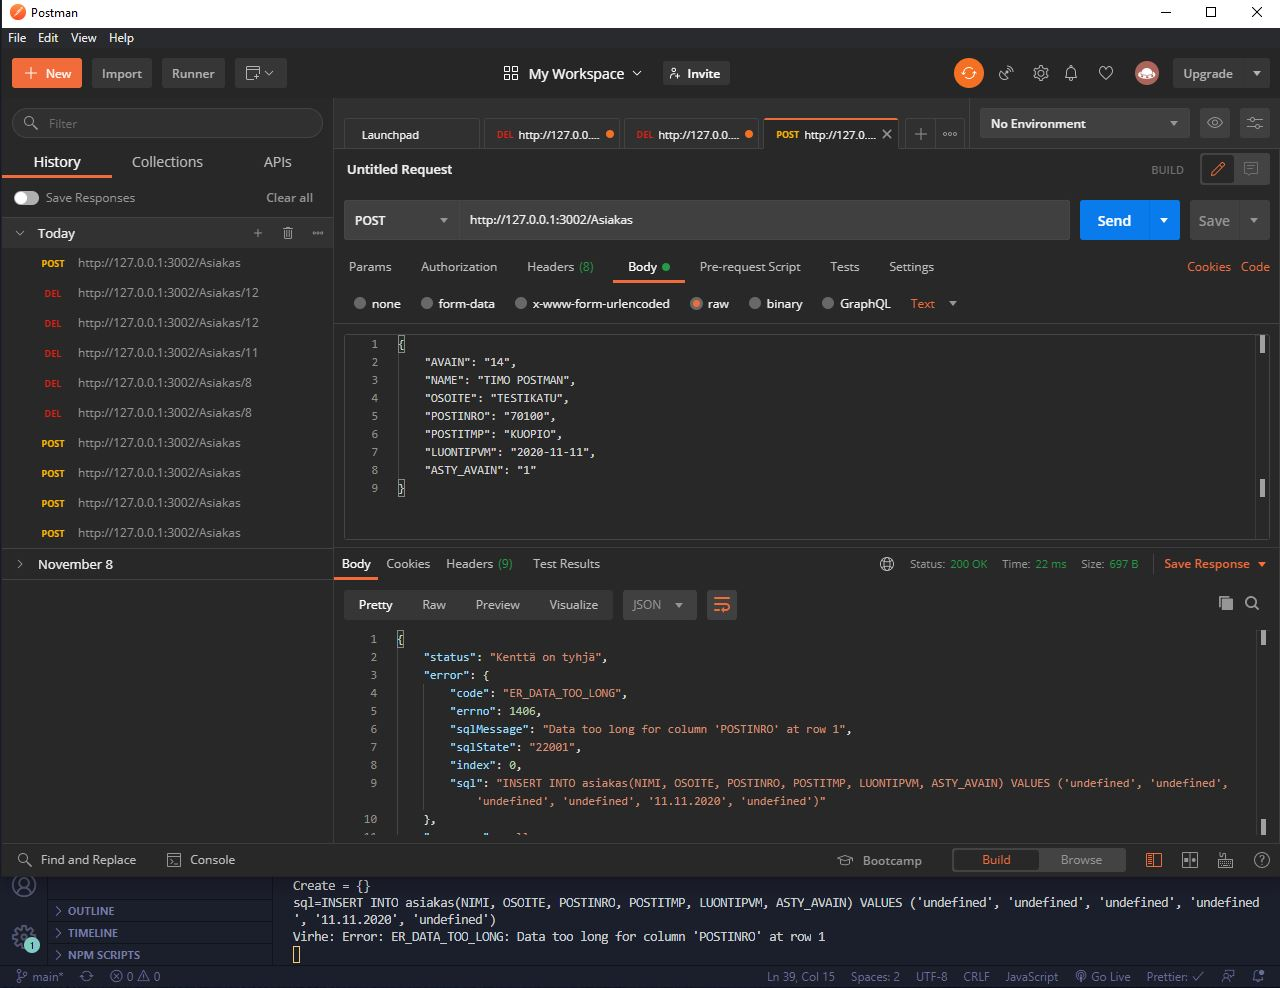
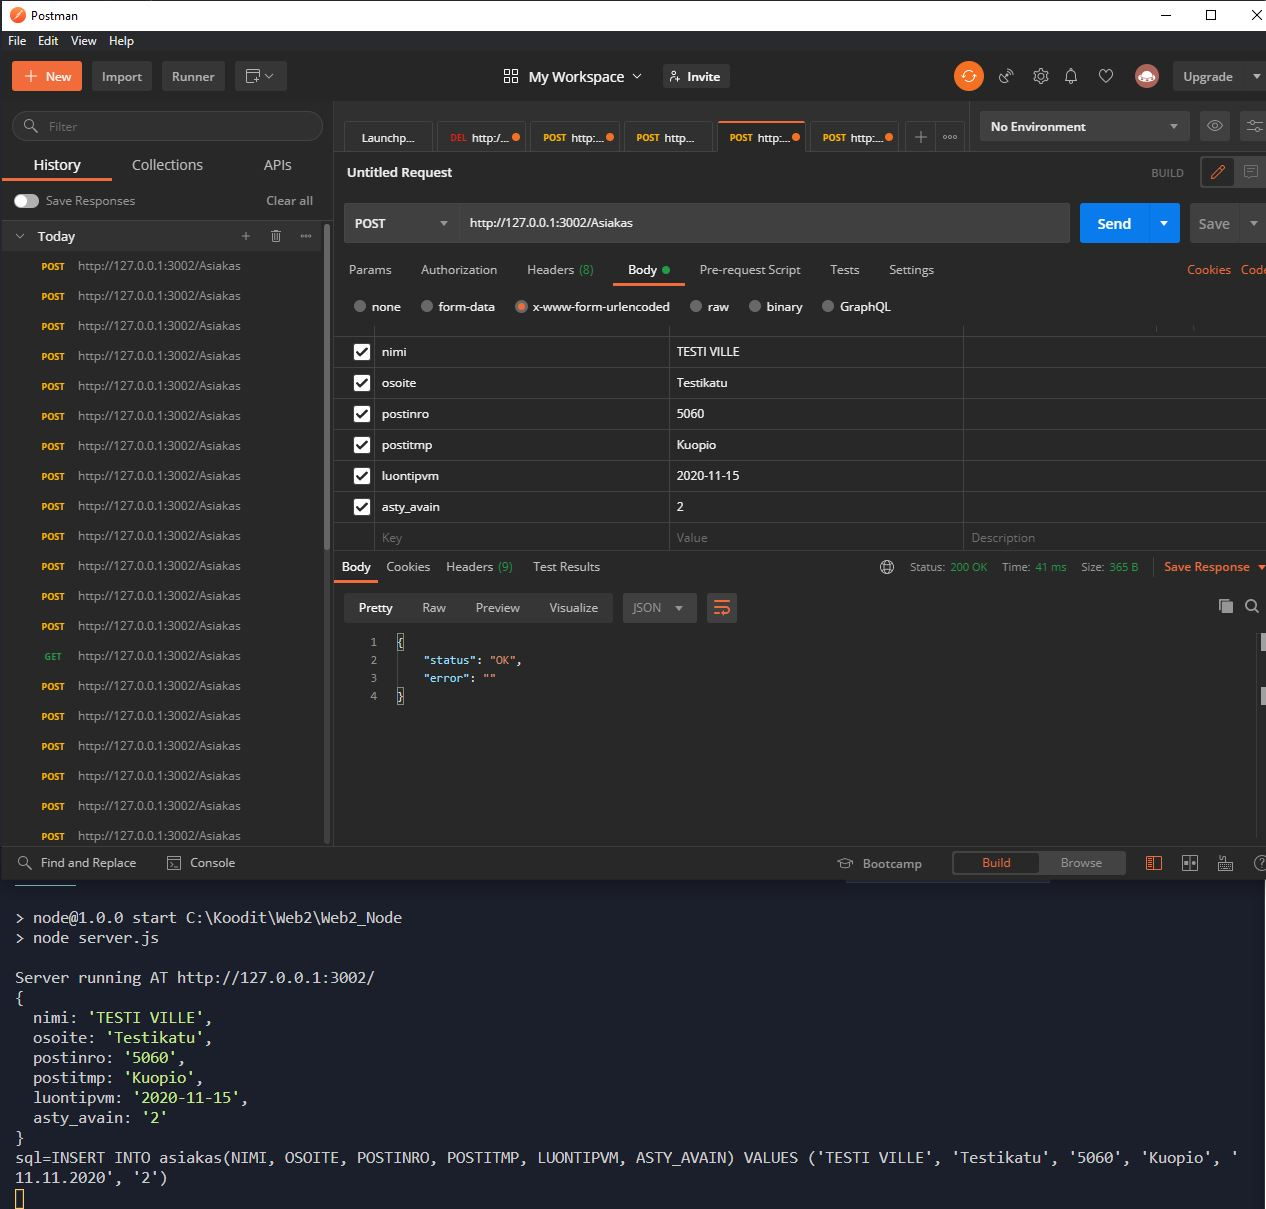
Versio 2.1
Korjattiin käyttöliittymän bugit, lisäys-toiminto ja ajax-kutsun delete methodi

diff --git a/script.js b/script.js
@@ -1,0 +1,191 @@
+$(function(){
+
+    // $.get("http://localhost:3002/Asiakas", (data, status, xhr) => {
+    // 	$.each(data, (index, json_obj) => {
+    // 		$("#asiakastyyppi").append("<option value=" + json_obj.AVAIN + ">" + json_obj.SELITE + "</option>");
+    // 			console.log(data);
+    // 		});
+    // 	});
+        
+    $("#addCustSubmit").click(function(){
+        lisaaAsiakas();
+    });
+    
+    $("#getBtn").click(function(){
+        haeKaikki();
+    });
+    
+    $("#deleteCustomer").click(function(){
+        poista(id);
+    });
+
+});
+
+
+// Tehtävä 7
+// Poistetaan asiakas JQueryn Ajax-kutsua käyttäen
+var poista = (id) => {
+        $.ajax({
+            url: "http://localhost:3002/Asiakas/" + id,
+            type: 'DELETE',
+            success: () => {
+                haeKaikki();
+            }
+        }          
+        ).fail((err) => {
+            console.log("Error " + err);
+        })
+    }
+
+// Haetaan asiakasta
+var haeAsiakas = () => {
+    $.get("http://localhost:3002/Types",(data, status, xhr) => {
+        $.each(data, (index, json_obj) => {
+            $("#asty_avain").append("<option value=" + json_obj.AVAIN + ">" + json_obj.SELITE + "</option>");
+        });
+    });
+}
+
+// Haetaan kaikki asiakkaat
+var haeKaikki = () => {
+    let sp = searcParameters();
+
+    $('#data').empty();
+    $.get(`http://localhost:3002/Asiakas?${sp}`,(data, status, xhr) => {
+        $.each(data, (index, json_obj) => {
+            $("#data").append("<tr>");
+            $("#data").append("<td>" + json_obj.AVAIN + "</td>");
+            $("#data").append("<td>" + json_obj.NIMI + "</td>");
+            $("#data").append("<td>" + json_obj.OSOITE + "</td>");
+            $("#data").append("<td>" + json_obj.POSTINRO + "</td>");
+            $("#data").append("<td>" + json_obj.POSTITMP + "</td>");
+            $("#data").append("<td>" + json_obj.LUONTIPVM + "</td>");
+            $("#data").append("<td>" + json_obj.ASTY_AVAIN + "</td>");
+            $("#data").append("<td><button onClick=poista(" + json_obj.AVAIN + ")>Delete</td>");
+            $("#data").append("</tr>");
+            
+        });
+    });
+}
+
+addCust = (param) => {
+    $.post("https://codez.savonia.fi/jussi/api/asiakas/lisaa.php", param)
+        .then((data) => {
+            showAddCustStat(data);
+            $('#addCustDialog').dialog("close");
+            fetch();
+        });
+}
+
+
+// Funktio asiakkaan lisäämiselle
+var lisaaAsiakas = (param) => {
+    $.post("http://localhost:3002/Asiakas", param)
+        .then((data) => {
+            showAddCustStat(data);
+            $('#addCustomerDialog').dialog("close");
+            $('#data').empty();
+            haeKaikki();
+        });
+}
+
+
+// luodaan asiakkaanlisäysdialogi
+let dialog = $('#addCustomerDialog').dialog({
+        autoOpen: false,
+        modal: true,
+        resizable: false,
+        minWidth: 400,
+        width: 'auto',
+        close: function() {
+            form[0].reset();
+            allFields.removeClass("ui-state-error");
+        }
+    });
+
+    // luodaan formi TESTI
+    let form = dialog.find("form")
+        .on("submit", (event) => {
+            event.preventDefault();
+                let param = dialog.find("form").serialize();
+                lisaaAsiakas(param);
+            }
+    );
+
+
+// avataan asiakkaanlisäysdialogi jos sitä ei ole jo avattu
+$('#addCustBtn').click(() => {
+    const isOpen = $('#addCustomerDialog').dialog("isOpen");
+    if (!isOpen) {
+        $('#addCustomerDialog').dialog("open");
+    }
+});
+
+// Asiakkaan lisäyksen tarkistus
+showAddCustStat = (data) => {
+    if (data.status == 'ok') {
+        $('#addStatus').css("color", "green").text("Lisääminen onnistui")
+        .show().fadeOut(6000);
+    } else {
+        $('#addStatus').css("color", "red").text("Virhe: Asiakkaan lisäys epäonnistui").show()
+        .show().fadeOut(6000);
+    }
+}
+
+
+// Palautetaan hakuparametri
+searcParameters = () => {
+    let str = '';
+    if ($('#name').val().trim() != '') {
+        let name = $('#name').val().trim();
+        str += `nimi=${name}`;
+    }
+    if ($('#address').val().trim() != '') {
+        let address = $('#address').val().trim();
+        if (str !== '') {
+            str += '&';
+        }
+        str += `osoite=${address}`;
+    }
+    if ($('#custType').val() !== null) {
+        let custType = $('#custType').val();
+        if (str !== '') {
+            str += '&';
+        }
+        str+=`asty_avain=${custType}`;
+    }
+    return str;
+}
+
+// Näytetään haun tulokset
+var naytaHakutulokset = () =>{
+    var nimi=$("#nimi").val();
+     var osoite=$("#osoite").val();
+     var tyyppi = $("#asiakastyyppi").val();
+
+      var tableHeaderRowCount = 1;
+      var table = document.getElementById('tulokset');
+      var rowCount = table.rows.length;
+          for (var i = tableHeaderRowCount; i < rowCount; i++) {
+              table.deleteRow(tableHeaderRowCount); 
+          }
+          
+    $.get("http://localhost:3002/asiakas?nimi=" + nimi + "&osoite=" + osoite + "&asty_avain=" + tyyppi,	function(data, status, xhr){
+            var json_array = data;
+            //console.log("status=" + status);
+                for(var i=0; i < json_array.length; i++){
+                  console.log("nimi=" + json_array[i].nimi);
+                  console.log("osoite=" + json_array[i].osoite);
+                };
+
+            $.each(data, function(index, json_obj)
+            {
+                //console.log(data);
+                $("#tulokset").append("<tr><td>" + json_obj.nimi +"</td><td>"+json_obj.osoite + "</td><td><button onclick='poista(" + json_obj.avain+ ")'>Poista " + json_obj.avain + "</button></td></tr>");
+            });
+    }).done(function(){
+    }).fail(function(err){
+      alert("fail");
+    }).always(function(){
+    })
+}

diff --git a/node.html b/node.html
@@ -8,7 +8,6 @@
     <script src="https://ajax.googleapis.com/ajax/libs/jquery/3.4.1/jquery.min.js"></script>
     <link rel="stylesheet" href="https://ajax.googleapis.com/ajax/libs/jqueryui/1.12.1/themes/smoothness/jquery-ui.css">
     <script src="https://ajax.googleapis.com/ajax/libs/jqueryui/1.12.1/jquery-ui.min.js"></script>
-    <script src="./scripts/script.js"></script>
     <link rel="stylesheet" href="./styles/style.css">
 </head>
 <body>
@@ -59,9 +58,9 @@
         </table>
     </div>
 
-    <div class="addCustDialog" id="addCustDialog" title="Asiakkaan lisääminen">
-        <div class="addCustDiv" id="addCustDiv">
-            <form>
+    <div class="addCustomerDialog" id="addCustomerDialog" title="Asiakkaan lisääminen">
+        <div class="addCustomerDiv" id="addCustomerDiv">
+            <form method="POST">
                 <fieldset style="margin-bottom: 1rem;">
                     <legend>Asiakkaan tiedot</legend>
                     <div class="gridContainer">
@@ -83,128 +82,7 @@
                 <input type="submit" value="Lisää" id="addCustSubmit">
             </form>
         </div>
-    </div>
-    
+    </div> 
 </body>
-			  
-<script>
-   
-	$(function(){
-
-		// $.get("http://localhost:3002/Asiakas", (data, status, xhr) => {
-		// 	$.each(data, (index, json_obj) => {
-		// 		$("#asiakastyyppi").append("<option value=" + json_obj.AVAIN + ">" + json_obj.SELITE + "</option>");
-		// 			console.log(data);
-		// 		});
-		// 	});
-			
-		$("#getBtn").click(function(){
-			haeKaikki();
-
-		});
-
-    });
-    
-    // Tehtävä 7
-    // Poistetaan asiakas JQueryn Ajax-kutsua käyttäen
-    var poista = (id) => {
-			$.ajax({
-				url: "http://localhost:3002/Asiakas/" + id,
-				type: 'DELETE',
-				success: () => {
-					naytaHakutulokset();
-				}
-			}          
-			).fail((err) => {
-				console.log("Error " + err);
-			})
-		}
-
-	// Haetaan asiakasta
-	var haeAsiakas = () => {
-		$.get("http://localhost:3002/Types",(data, status, xhr) => {
-			$.each(data, (index, json_obj) => {
-				$("#asty_avain").append("<option value=" + json_obj.AVAIN + ">" + json_obj.SELITE + "</option>");
-			});
-		});
-    }
-    
-	// Haetaan kaikki asiakkaat
-    var haeKaikki = () => {
-        let sp = searcParameters();
-
-        $('#data').empty();
-		$.get(`http://localhost:3002/Asiakas?${sp}`,(data, status, xhr) => {
-			$.each(data, (index, json_obj) => {
-                $("#data").append("<tr>");
-                $("#data").append("<td>" + json_obj.AVAIN + "</td>");
-                $("#data").append("<td>" + json_obj.NIMI + "</td>");
-                $("#data").append("<td>" + json_obj.OSOITE + "</td>");
-                $("#data").append("<td>" + json_obj.POSTINRO + "</td>");
-                $("#data").append("<td>" + json_obj.POSTITMP + "</td>");
-                $("#data").append("<td>" + json_obj.LUONTIPVM + "</td>");
-                $("#data").append("<td>" + json_obj.ASTY_AVAIN + "</td>");
-                $("#data").append("</tr>");
-                
-			});
-		});
-    }
-    
-    // Palautetaan hakuparametri
-    searcParameters = () => {
-        let str = '';
-        if ($('#name').val().trim() != '') {
-            let name = $('#name').val().trim();
-            str += `nimi=${name}`;
-        }
-        if ($('#address').val().trim() != '') {
-            let address = $('#address').val().trim();
-            if (str !== '') {
-                str += '&';
-            }
-            str += `osoite=${address}`;
-        }
-        if ($('#custType').val() !== null) {
-            let custType = $('#custType').val();
-            if (str !== '') {
-                str += '&';
-            }
-            str+=`asty_avain=${custType}`;
-        }
-        return str;
-    }
-
-    // Näytetään haun tulokset
-	var naytaHakutulokset = () =>{
-		var nimi=$("#nimi").val();
-		 var osoite=$("#osoite").val();
-		 var tyyppi = $("#asiakastyyppi").val();
-
-		  var tableHeaderRowCount = 1;
-		  var table = document.getElementById('tulokset');
-		  var rowCount = table.rows.length;
-			  for (var i = tableHeaderRowCount; i < rowCount; i++) {
-				  table.deleteRow(tableHeaderRowCount); 
-			  }
-			  
-		$.get("http://localhost:3002/asiakas?nimi=" + nimi + "&osoite=" + osoite + "&asty_avain=" + tyyppi,	function(data, status, xhr){
-				var json_array = data;
-				//console.log("status=" + status);
-					for(var i=0; i < json_array.length; i++){
-					  console.log("nimi=" + json_array[i].nimi);
-					  console.log("osoite=" + json_array[i].osoite);
-					};
-
-				$.each(data, function(index, json_obj)
-				{
-					//console.log(data);
-					$("#tulokset").append("<tr><td>" + json_obj.nimi +"</td><td>"+json_obj.osoite + "</td><td><button onclick='poista(" + json_obj.avain+ ")'>Poista " + json_obj.avain + "</button></td></tr>");
-				});
-		}).done(function(){
-		}).fail(function(err){
-		  alert("fail");
-		}).always(function(){
-		})
-	}
-</script>
+<script src="./script.js"></script>
 </html>

diff --git a/customerController.js b/customerController.js
@@ -1,6 +1,7 @@
 "use strict";
 
 var mysql = require("mysql");
+var bodyParser = require("body-parser");
 
 // Luodaan yhteys tietokantaan
 var connection = mysql.createConnection({
@@ -54,23 +55,20 @@ module.exports = {
   // Tehtävä 4 ja 9
   // Lisätään asiakas tietokantaan ja tarkistetaan virheet
   create: function(req, res){
-		
-    console.log("Create = " + JSON.stringify(req.body));
+    console.dir(req.body)
 
   if ( req.body.nimi == "" || req.body.osoite == "" )
   {
-        res.send({"status": "NOT OK", "error": "Kenttä on tyhjä"}); 
+        res.send({"status": "500", "error": "Kenttä on tyhjä"}); 
   }
   else 
   {
-    var sql = "INSERT INTO asiakas(NIMI, OSOITE, POSTINRO, POSTITMP, LUONTIPVM, ASTY_AVAIN) VALUES ('" + req.body.nimi + "', '" + req.body.osoite + "', '" + req.body.postinro + "', '" + req.body.postitmp + "', '" + "11.11.2020', '" + req.body.asty_avain + "')";
-    
-    console.log("sql=" + sql);
+    var sql = "INSERT INTO asiakas(NIMI, OSOITE, POSTINRO, POSTITMP, LUONTIPVM, ASTY_AVAIN) VALUES ('" + req.body.nimi + "', '" + req.body.osoite + "', '" + req.body.postinro + "', '" + req.body.postitmp + "', '" + "11.11.2020', '" + "2')";
     
     connection.query(sql, function(error, results, fields){
       if ( error ){
         console.log("Virhe: " + error);
-        res.send({"status": "Kenttä on tyhjä", "error": error, "response": null}); 
+        res.send({"status": "500", "error": error, "response": null}); 
       }
       else
       {					

diff --git a/README.md b/README.md
@@ -1,5 +1,8 @@
 Tämä projekti on Savonian Web-ohjelmoinnin jatkokurssin tehtävien varten luotu repository. Koodien pohjat ovat tulleet Savonia lehtoreilta, joita allekirjoittanut on muokannut. Projekti on vain oppimistarkoitukseen, eikä mihinkaan muuhun.
 
+Tehtävä 4: asty_avain ja päivämäärä on hard-koodattu
+Tehtävä 9: Koodissa on virhe, joka ilmoittaa aina postinro olevan liian pitkä, siksi myös onnistuneesta lisäyksestä tulee error
+
 Tehtävät 2 ja 3
 
 1. Muokkaa customerController.js tiedostoon SQL-serverisi tiedot, josta voit hakea tietoja (rivit 5-10).
